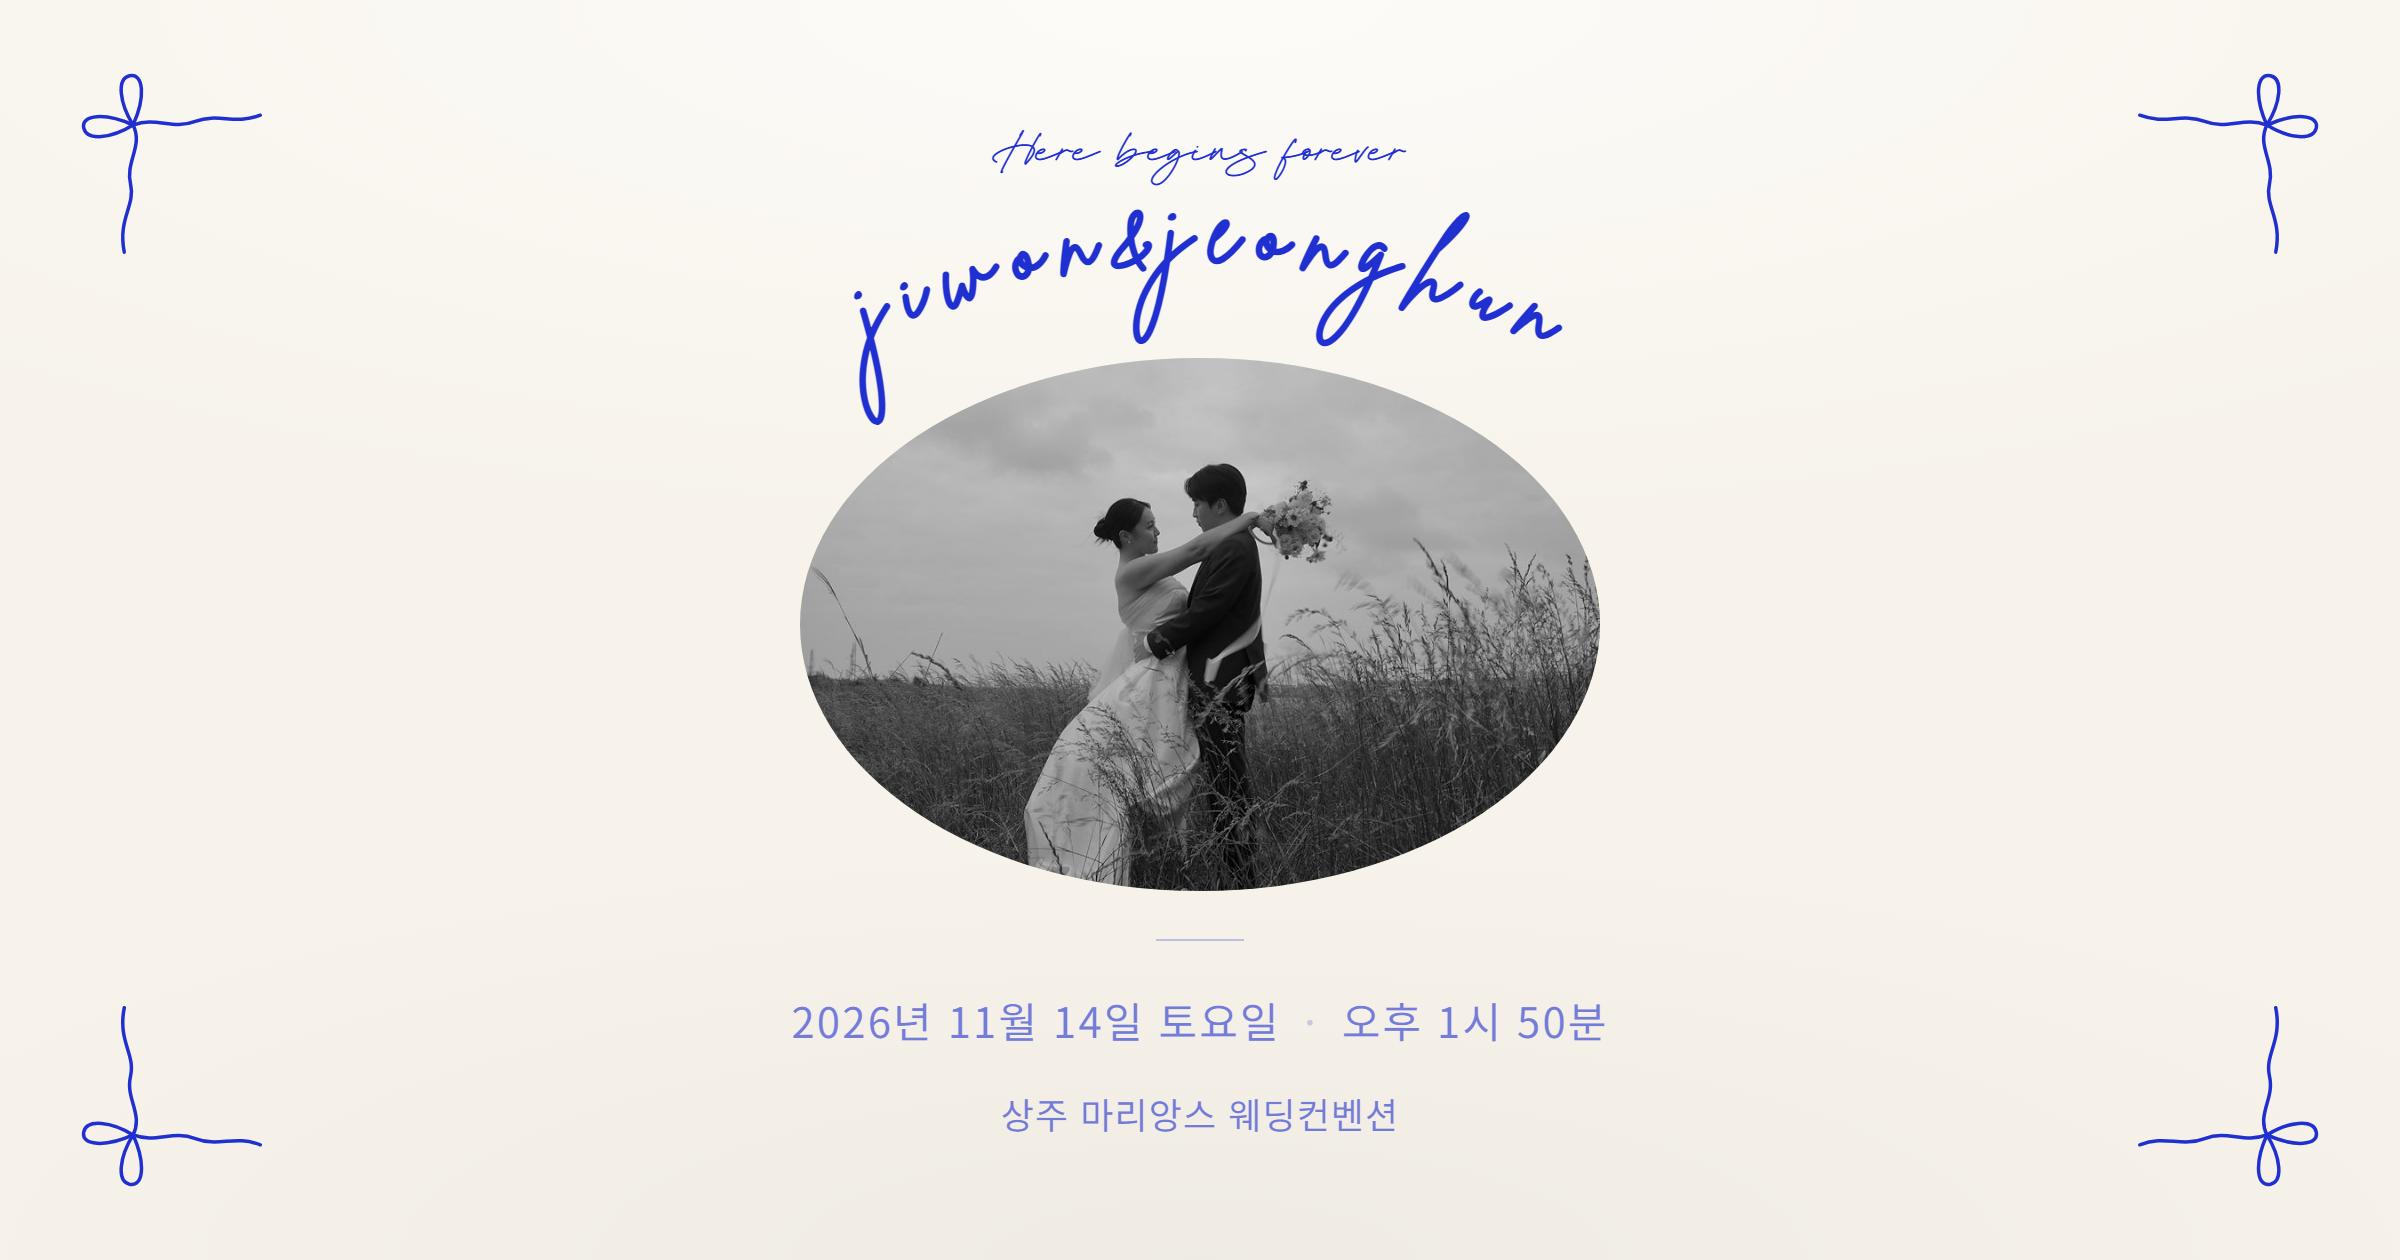
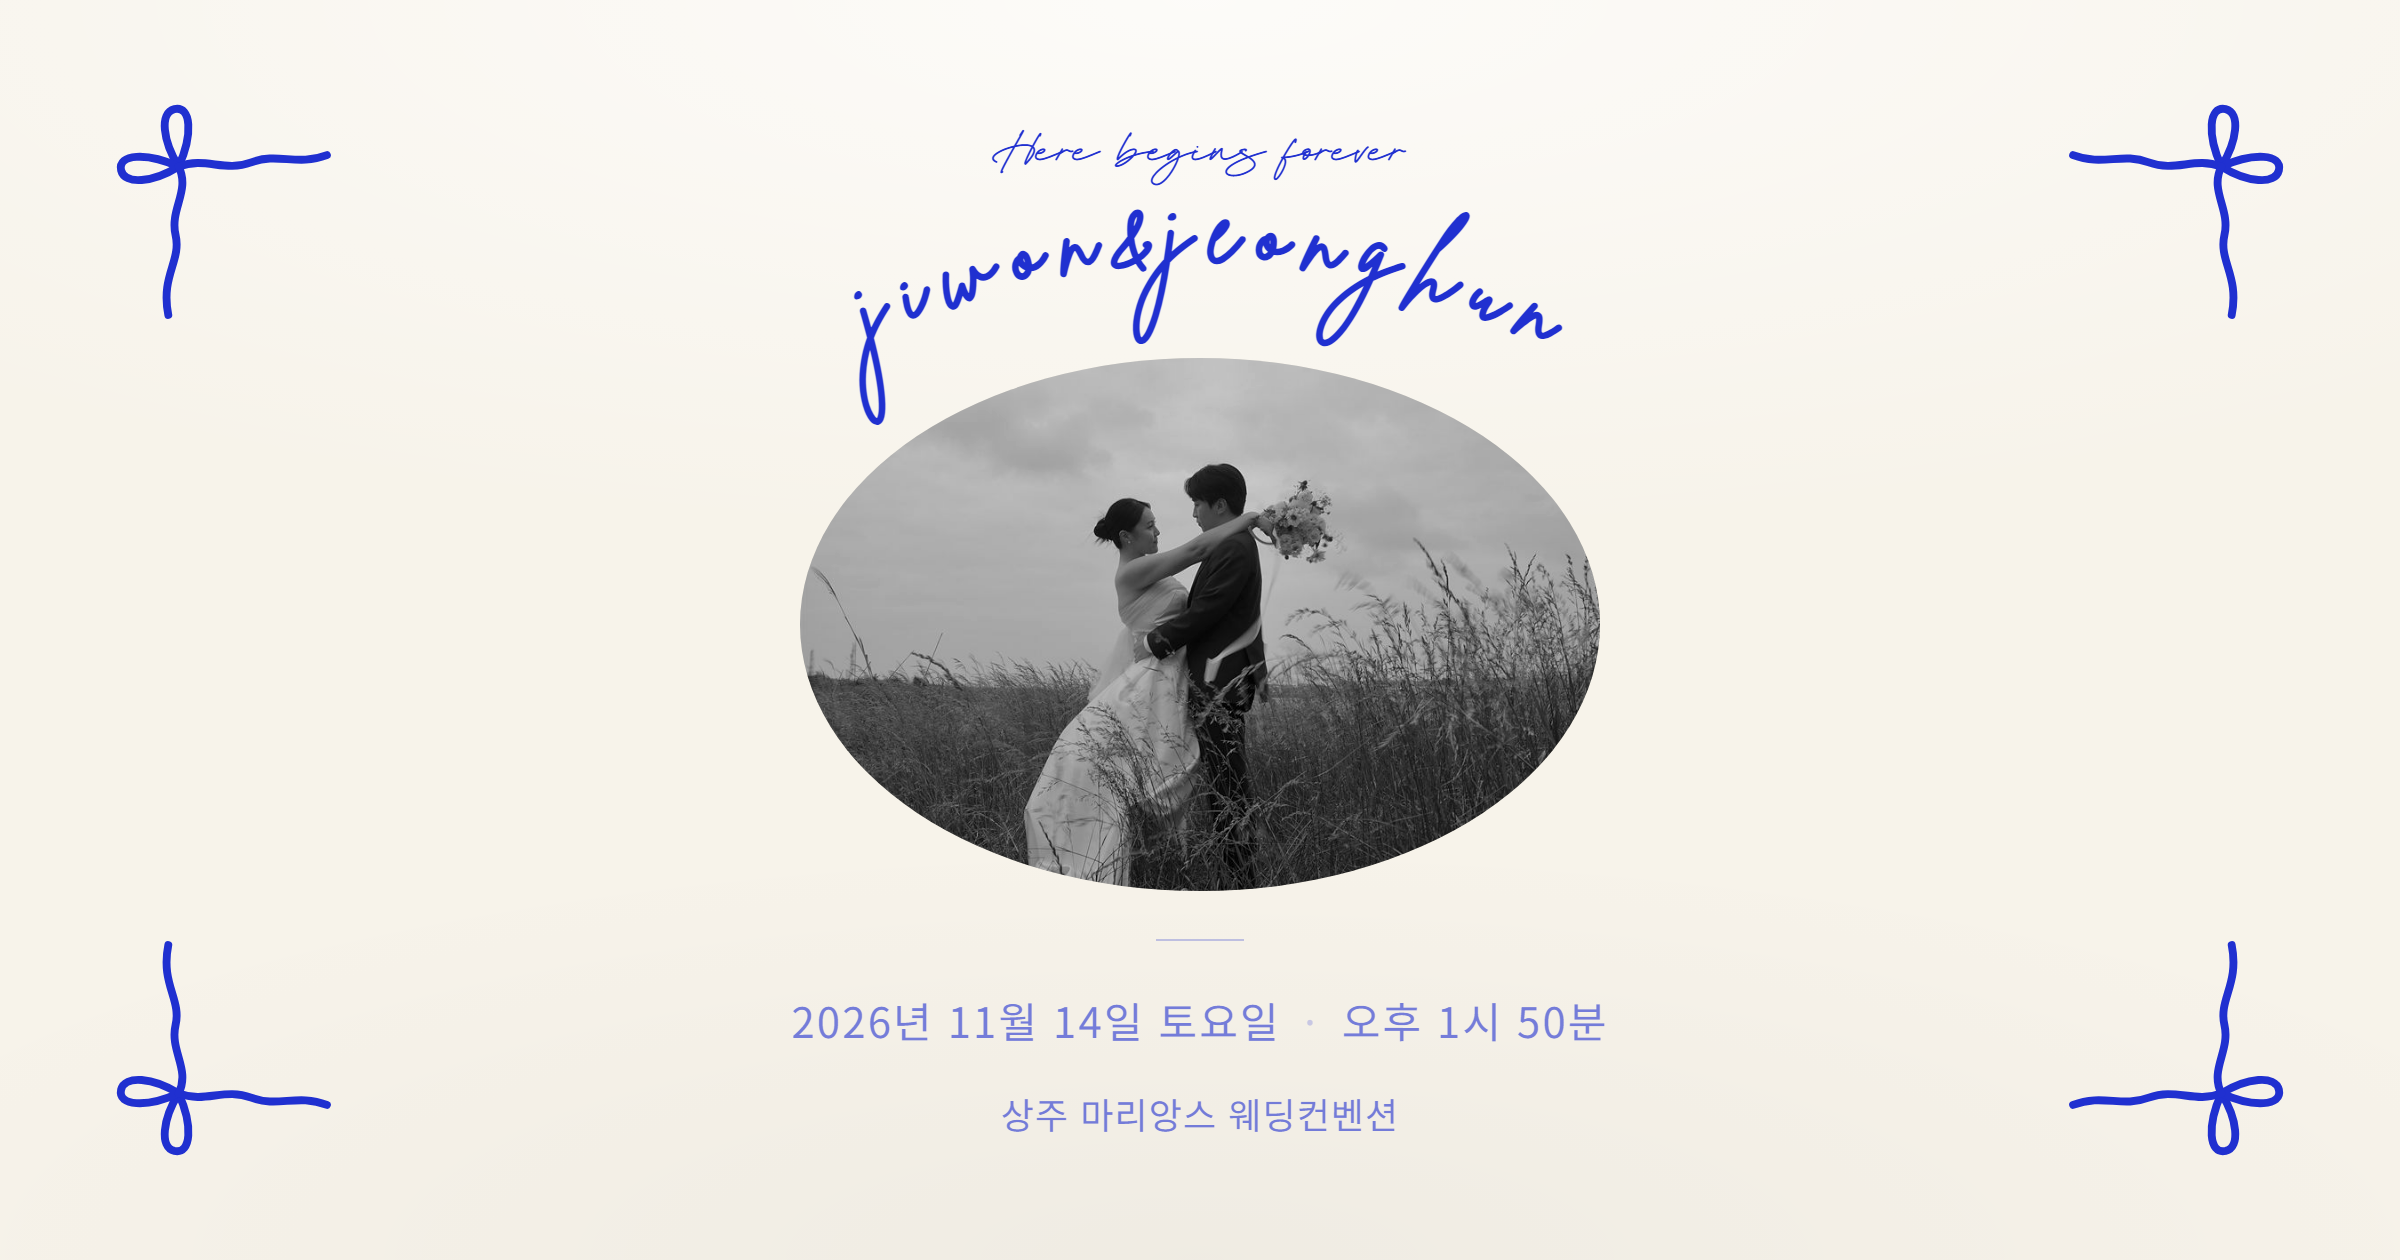
no message

diff --git a/og-card.html b/og-card.html
@@ -49,13 +49,18 @@ body{
   justify-content:center;
 }
 
-/* 코너 리본 : 청첩장 본문과 같은 도형 */
-.mark{ position:absolute; width:96px; height:96px; color:#2030d0; }
+/* 코너 리본 : 청첩장 본문과 같은 도형.
+   다만 카톡 미리보기는 이 카드를 폭 350px 안팎으로 줄여서 보여주기 때문에
+   본문과 같은 굵기(1.35)로 두면 선이 0.5px 이하로 뭉개져 사라진다.
+   그래서 og 카드에서만 선을 굵히고 크기도 키운다(아래 stroke-width 는 svg 쪽에 지정).
+   위치도 가장자리에서 더 들여놨다 — 카톡이 이미지 테두리를 잘라내는 경우가 있어
+   모서리에 바짝 붙여두면 리본부터 잘려나간다 */
+.mark{ position:absolute; width:112px; height:112px; color:#2030d0; }
 .mark svg{ width:100%; height:100%; display:block; overflow:visible; }
-.mark.tl{ top:34px;    left:38px; }
-.mark.tr{ top:34px;    right:38px;  transform:scaleX(-1); }
-.mark.bl{ bottom:34px; left:38px;   transform:scaleY(-1); }
-.mark.br{ bottom:34px; right:38px;  transform:scale(-1,-1); }
+.mark.tl{ top:50px;    left:56px; }
+.mark.tr{ top:50px;    right:56px;  transform:scaleX(-1); }
+.mark.bl{ bottom:50px; left:56px;   transform:scaleY(-1); }
+.mark.br{ bottom:50px; right:56px;  transform:scale(-1,-1); }
 
 /* 자간은 index.html 과 같은 비율이 되도록 px 대신 em 으로 적는다.
    (본문 gift-line 은 20px 에 -1px = -.05em) */
@@ -125,7 +130,8 @@ body{
 
 <svg width="0" height="0" style="position:absolute">
   <defs>
-    <g id="ribbon-corner" fill="none" stroke="currentColor" stroke-width="1.35"
+    <!-- stroke-width : 본문은 1.35 지만, 축소되어 보이는 og 카드에서는 그 굵기가 남지 않는다 -->
+    <g id="ribbon-corner" fill="none" stroke="currentColor" stroke-width="2.6"
        stroke-linecap="round" stroke-linejoin="round">
       <path d="M22 22 C16.8 13.6 15.6 4.2 20.6 3 C26.2 1.8 26.8 11.4 22 22"/>
       <path d="M22 22 C13.6 27.2 4.2 28.2 3 23.2 C1.8 17.8 11.4 17.2 22 22"/>

diff --git a/index.html b/index.html
@@ -1488,7 +1488,7 @@ if(galleryEl && lb){
         objectType:'feed',
         content:{
           title:'황지원 · 최정훈 결혼합니다',
-          description:'2026년 11월 14일 토요일 오후 1시 50분\n상주 마리앙스 웨딩컨벤션',
+          description:'2026.11.14(토) 오후 1:50\n상주 마리앙스 웨딩컨벤션',
           imageUrl: SITE + 'image/og-card.png',   /* 카톡이 읽어야 하므로 반드시 절대 https 주소 */
           link:{ mobileWebUrl:url, webUrl:url }
         },
